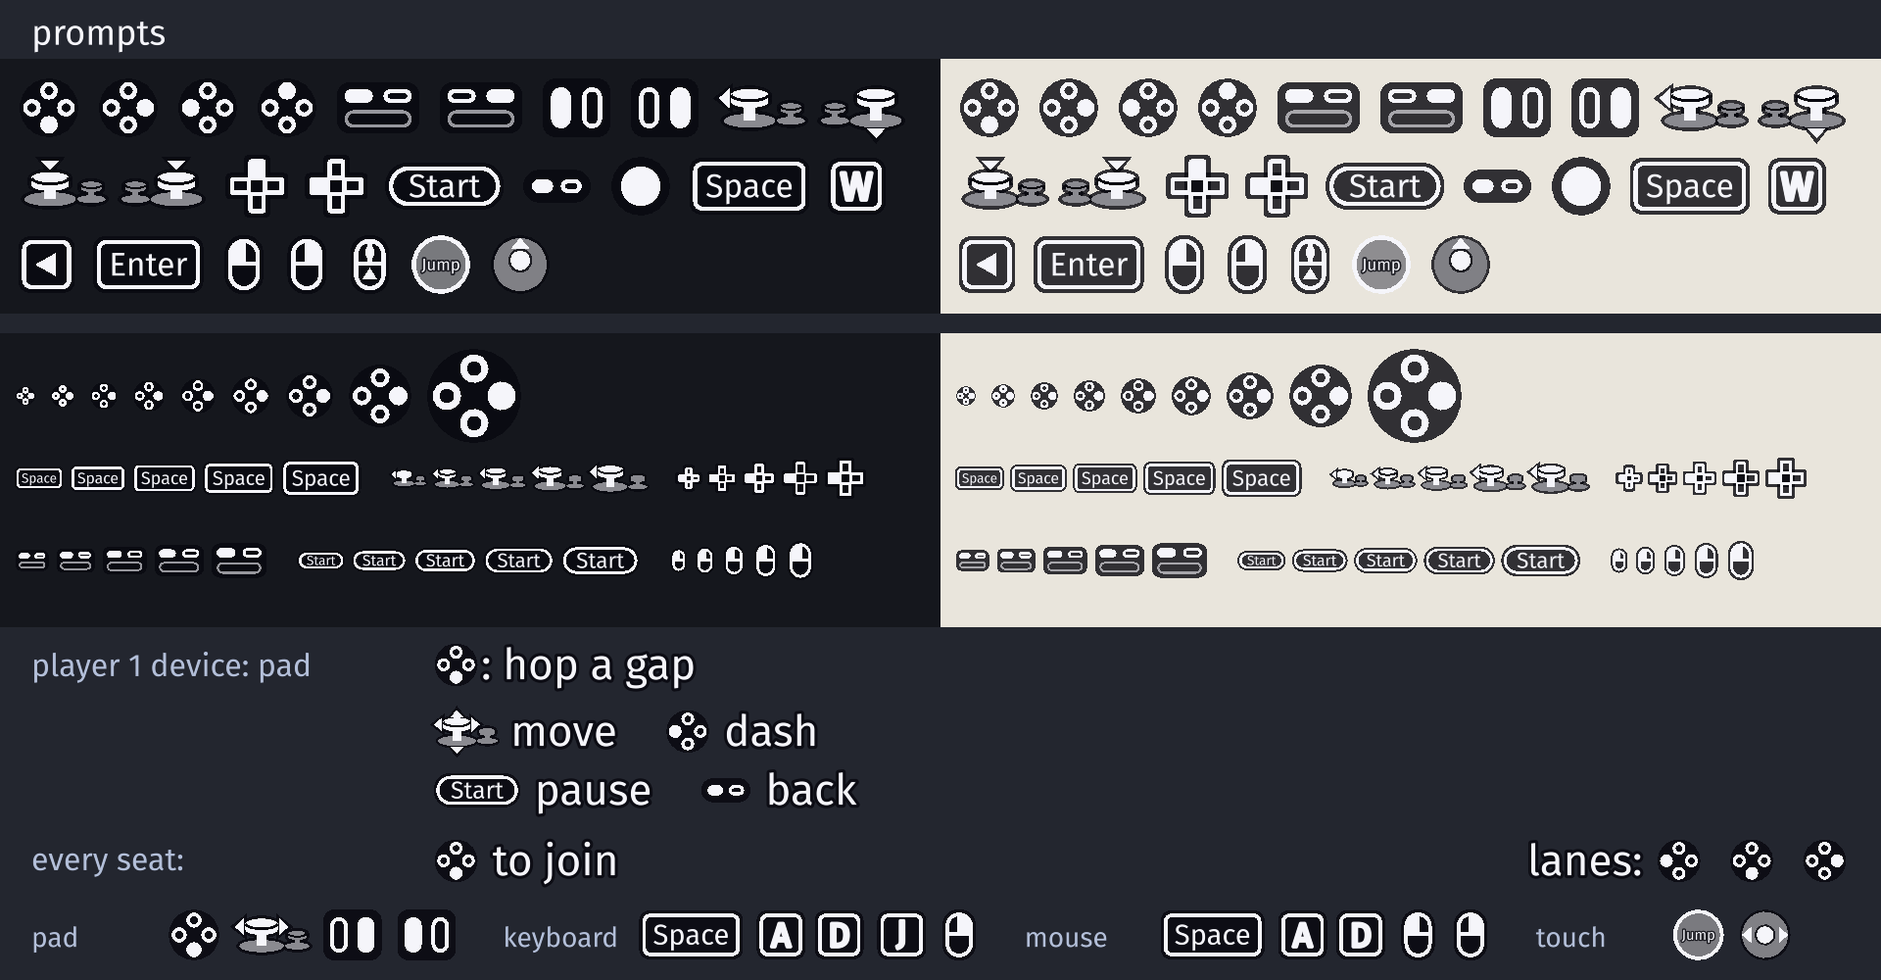
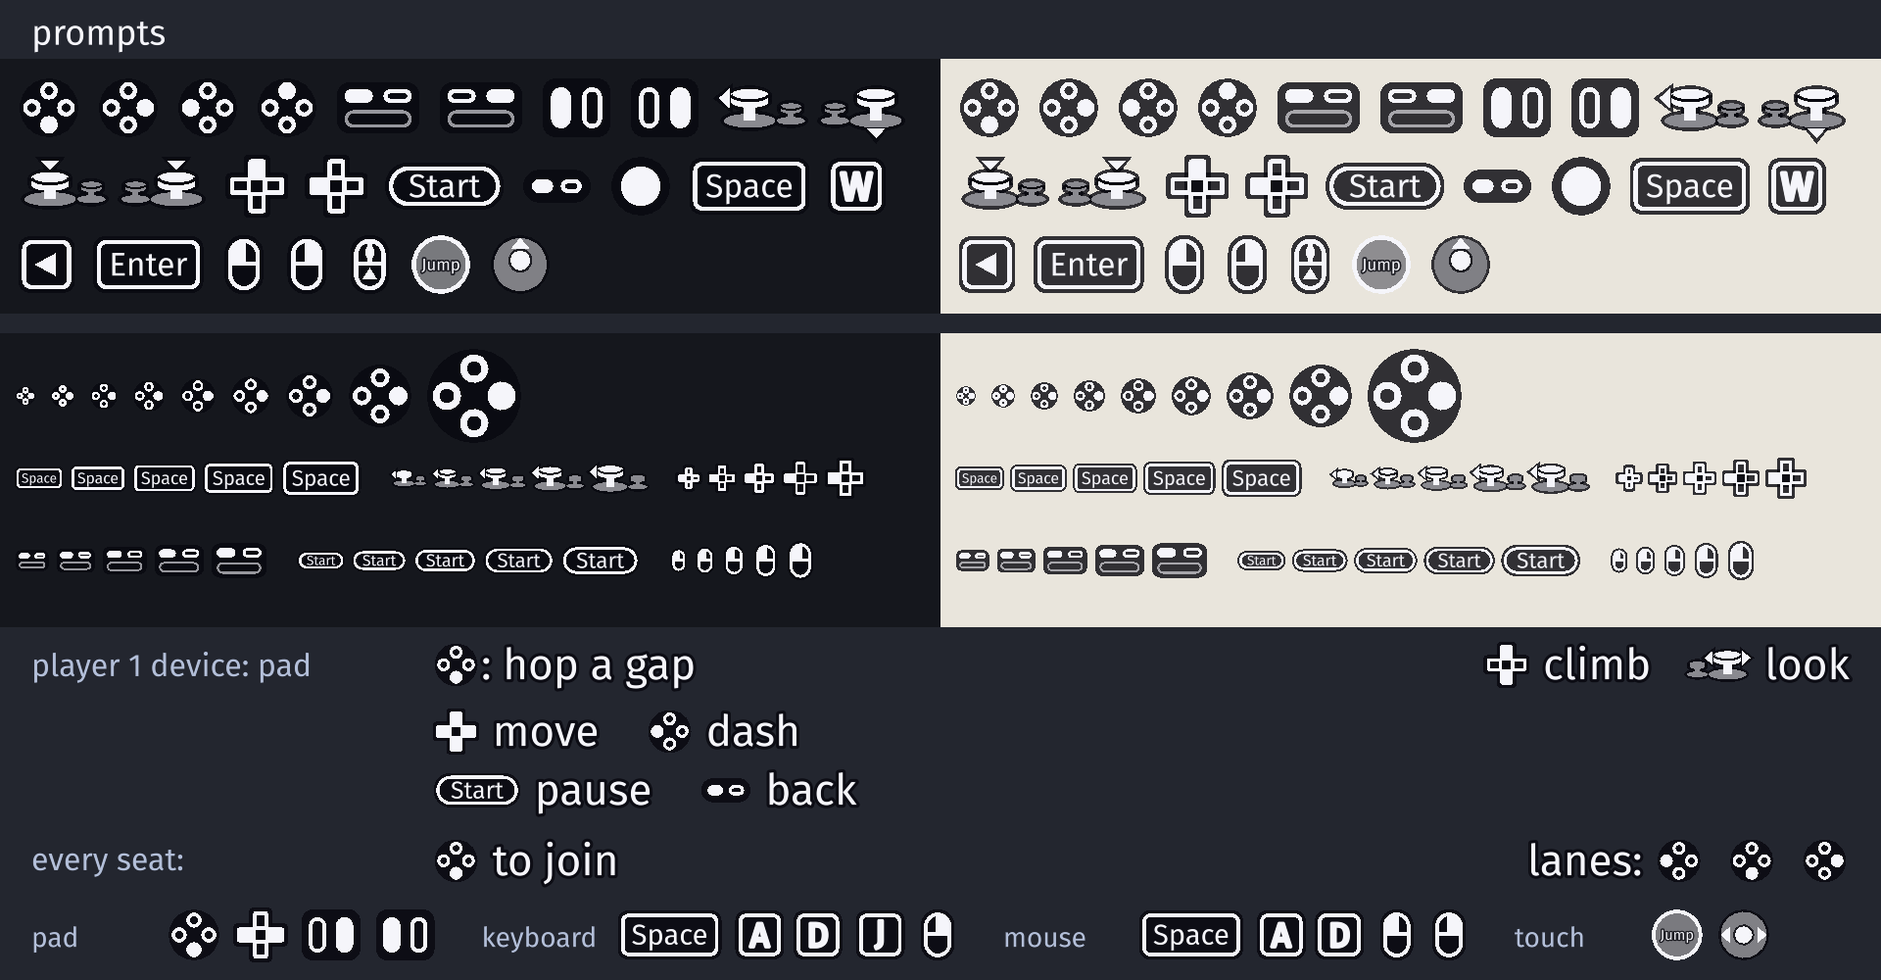
Movement prompts draw the d-pad, those arms solid, when the d-pad and a stick are both bound; the stick only for stick-only actions; gate prompts-dpad; v0.34.2

diff --git a/src/ui/prompt.c b/src/ui/prompt.c
@@ -44,7 +44,7 @@ static struct {
   uint32_t errors, missing;
   uint32_t logged[128]; /* hashes of the messages logged once */
   int nlogged;
-  bool break_wrong_dot, break_ignore_force; /* CW_TEST_PROMPT_BREAK: a gate's control */
+  bool break_wrong_dot, break_ignore_force, break_stick_first; /* CW_TEST_PROMPT_BREAK: a gate's control */
 } P;
 
 static const char *const DEVICE_NAMES[CW_PROMPT_DEVICE_COUNT] = { "none", "pad", "keyboard", "mouse", "touch" };
@@ -177,6 +177,7 @@ void cw__prompt_input_init(void) {
   const char *b = getenv("CW_TEST_PROMPT_BREAK");
   P.break_wrong_dot = b && strstr(b, "wrong_dot");
   P.break_ignore_force = b && strstr(b, "ignore_force");
+  P.break_stick_first = b && strstr(b, "stick_first");
 }
 
 /* ── which binding ───────────────────────────────────────────────────── */
@@ -321,6 +322,22 @@ static bool all_dpad(const cw_action *acts, int n) {
   }
   return true;
 }
+static bool is_stick_dir(cw_binding b) { return b.kind == CW_BIND_PAD_AXIS && b.code < CW_AXIS_LT; }
+static bool is_dpad_arm(cw_binding b) { return b.kind == CW_BIND_PAD_BUTTON && b.code >= CW_PAD_UP && b.code <= CW_PAD_RIGHT; }
+/* a movement action (its first pad binding a stick direction or a d-pad arm) on both a stick and a d-pad arm draws
+ * that arm, whichever comes first: {lean_fwd} alone lights one arm */
+static bool dpad_over_stick(cw_action a, cw_binding *out) {
+  cw_binding bs[CW_INPUT_MAX_BINDINGS], first;
+  if (!binding_for(a, CW_PROMPT_PAD, &first) || !(is_stick_dir(first) || is_dpad_arm(first))) return false;
+  int k = cw_action_bindings(a, bs, CW_INPUT_MAX_BINDINGS), dpad = -1;
+  bool stick = false;
+  for (int j = 0; j < k; j++) {
+    if (is_stick_dir(bs[j])) stick = true;
+    if (dpad < 0 && is_dpad_arm(bs[j])) dpad = j;
+  }
+  if (!stick || dpad < 0) return false;
+  return *out = bs[dpad], true;
+}
 static bool touch_stick_of(const cw_action *acts, int n, int *id) {
   int found = -1;
   for (int i = 0; i < n; i++) {
@@ -331,16 +348,6 @@ static bool touch_stick_of(const cw_action *acts, int n, int *id) {
   }
   *id = found;
   return found >= 0;
-}
-
-/* the d-pad stands in for the stick on a pad used only through its d-pad (a pad with no stick); pads < 0: none known */
-static bool stickless(const int *pads, int npads) {
-  if (npads <= 0) return false;
-  for (int i = 0; i < npads; i++) {
-    int p = pads[i];
-    if (p < 0 || p >= CW_MAX_PADS || !I.pad_dpad_seen[p] || I.pad_stick_seen[p]) return false;
-  }
-  return true;
 }
 
 /* the movement bits of the action at index i of a set of n: a pair is left, right (or up, down); four are l, r, u, d */
@@ -359,14 +366,15 @@ static uint32_t move_bit(const cw_action *acts, int n, int i) {
 }
 
 /* the glyphs of n actions on one device, added to s */
-static void device_glyphs(const cw_action *acts, int n, cw_prompt_device d, const int *pads, int npads, gset *s) {
+static void device_glyphs(const cw_action *acts, int n, cw_prompt_device d, gset *s) {
   if (n >= 2 && d == CW_PROMPT_PAD) {
+    /* the d-pad whenever every action is on it, even when a stick is bound too: the stick only for stick-only actions */
     int st = common_stick(acts, n);
-    bool dp = all_dpad(acts, n);
-    if (st >= 0 && dp && stickless(pads, npads)) st = -1;
+    bool dp = all_dpad(acts, n) && !(P.break_stick_first && st >= 0); /* the control: the stick when both */
+    if (dp) st = -1;
     if (st >= 0 || dp) {
-      glyph g = { .kind = st >= 0 ? PK_STICK : PK_DPAD };
-      for (int i = 0; i < n; i++) g.lit |= st >= 0 ? move_bit(acts, n, i) << 4 : move_bit(acts, n, i);
+      glyph g = { .kind = dp ? PK_DPAD : PK_STICK };
+      for (int i = 0; i < n; i++) g.lit |= dp ? move_bit(acts, n, i) : move_bit(acts, n, i) << 4;
       if (st == 1) g.lit |= 1;
       set_add(s, g);
       return;
@@ -385,7 +393,8 @@ static void device_glyphs(const cw_action *acts, int n, cw_prompt_device d, cons
   for (int j = 0; j < n; j++) {
     int i = keys ? WASD[j] : j;
     cw_binding b;
-    if (binding_for(acts[i], d, &b)) set_add(s, glyph_of(b));
+    if (d == CW_PROMPT_PAD && !P.break_stick_first && dpad_over_stick(acts[i], &b)) set_add(s, glyph_of(b));
+    else if (binding_for(acts[i], d, &b)) set_add(s, glyph_of(b));
     else missing(acts[i], d);
   }
 }
@@ -401,17 +410,15 @@ static void action_set(const cw_action *acts, int n, int player, gset *s) {
       for (int i = 0; i < n; i++) missing(acts[i], d);
       return;
     }
-    int pad = player < CW_INPUT_MAX_PLAYERS ? I.pad[player] : -1;
-    device_glyphs(acts, n, d, &pad, 1, s);
+    device_glyphs(acts, n, d, s);
     return;
   }
   bool pad = false, desk = false, touch = false;
   cw_prompt_device desk_dev = CW_PROMPT_KEYBOARD;
-  int pads[CW_INPUT_MAX_PLAYERS], npads = 0;
   for (int p = 0; p < CW_INPUT_MAX_PLAYERS; p++) {
     if (!present(p)) continue;
     cw_prompt_device d = device_of(p);
-    if (d == CW_PROMPT_PAD) pad = true, pads[npads++] = I.pad[p];
+    if (d == CW_PROMPT_PAD) pad = true;
     else if (d == CW_PROMPT_KEYBOARD || d == CW_PROMPT_MOUSE) {
       if (!desk) desk_dev = d;
       desk = true;
@@ -419,9 +426,9 @@ static void action_set(const cw_action *acts, int n, int player, gset *s) {
   }
   /* a device with nothing for these actions is left out while another shows something (a menu's keys on a phone) */
   held.on = true, held.n = 0;
-  if (pad) device_glyphs(acts, n, CW_PROMPT_PAD, pads, npads, s);
-  if (desk) device_glyphs(acts, n, desk_dev, NULL, 0, s);
-  if (touch) device_glyphs(acts, n, CW_PROMPT_TOUCH, NULL, 0, s);
+  if (pad) device_glyphs(acts, n, CW_PROMPT_PAD, s);
+  if (desk) device_glyphs(acts, n, desk_dev, s);
+  if (touch) device_glyphs(acts, n, CW_PROMPT_TOUCH, s);
   held.on = false;
   if (!s->n)
     for (int i = 0; i < held.n; i++) missing(held.a[i], (cw_prompt_device)held.d[i]);

diff --git a/samples/prompts/main.c b/samples/prompts/main.c
@@ -13,7 +13,7 @@
  * pad binding to it: every prompt follows on that frame. Native env:
  * PROMPTS_TYPO=1 writes {jmup} in one hint (the prompts-text gate's control).
  *
- * The debug request `ladder` swaps the page for the stick ladder: every stick glyph (a pair, four ways,
+ * The debug request `ladder` swaps the page for the stick ladder: every stick glyph (a stick-only pair, four ways,
  * one way, each stick, a press, the touch stick) and the keycaps at 16, 20, 24, 32 and 48 canvas pixels, on dark
  * and light, then in lines of HUD text at 16 and 22: the native-scale crops the stick glyph was drawn from.
  *
@@ -51,7 +51,7 @@ static const char AR[] =
 
 static struct {
   cw_font sans;
-  cw_action jump, dash, left, right, up, down, pause, back, fire, zoom, aim, look_l, look_r;
+  cw_action jump, dash, left, right, up, down, pause, back, fire, zoom, aim, look_l, look_r, stick[4];
   int32_t dev_hist[8], dev_n;
   float text_w[3];
   uint32_t rebind_code, missing_touch;
@@ -108,6 +108,13 @@ static void init(void *user) {
   S.look_r = cw_action_add("look_right", 0.3f);
   cw_action_bind_text(S.look_r, "axis:rx+");
   /* #endregion */
+  /* the stick ladder's pairs on the left stick alone (movement binds the d-pad too, so it draws the d-pad) */
+  static const char *const stick_binds[4] = { "axis:lx-", "axis:lx+", "axis:ly-", "axis:ly+" };
+  static const char *const stick_names[4] = { "stick_left", "stick_right", "stick_up", "stick_down" };
+  for (int i = 0; i < 4; i++) {
+    S.stick[i] = cw_action_add(stick_names[i], 0.3f);
+    cw_action_bind_text(S.stick[i], stick_binds[i]);
+  }
 
   /* the touch controls the touch prompts show (the overlay is off: the sheet is the picture) */
   cw_touch_add_round_button(&(cw_touch_button_desc){ .x = 110, .y = 110, .label = "Jump" });
@@ -196,8 +203,8 @@ static void ladder(float x0, float y, cw_color bg, cw_color ink, float w) {
 /* one cell of the stick ladder at size s: row r, item i (0 or 1); returns its width */
 static float ladder_cell(int r, int i, cw_vec2 at, float s, cw_color ink) {
   static const char *const one[][2] = { { "axis:lx-", "axis:ry+" }, { "pad:lstick", "pad:rstick" }, { "key:j", "key:escape" } };
-  cw_action steer[2] = { S.left, S.right }, vert[2] = { S.up, S.down }, four[4] = { S.left, S.right, S.up, S.down },
-            look[2] = { S.look_l, S.look_r };
+  cw_action steer[2] = { S.stick[0], S.stick[1] }, vert[2] = { S.stick[2], S.stick[3] }, four[4] = { S.stick[0], S.stick[1], S.stick[2], S.stick[3] },
+            look[2] = { S.look_l, S.look_r }, touch4[4] = { S.left, S.right, S.up, S.down }, touch2[2] = { S.left, S.right };
   cw_binding b;
   switch (r) {
   case 0: cw_prompt_force_device(3, CW_PROMPT_PAD); return cw_prompt_actions(i ? vert : steer, 2, 3, at, s, ink).x;
@@ -207,7 +214,7 @@ static float ladder_cell(int r, int i, cw_vec2 at, float s, cw_color ink) {
     return cw_prompt_binding(b, at, s, ink).x;
   case 4:
     cw_prompt_force_device(3, CW_PROMPT_TOUCH);
-    return cw_prompt_actions(i ? four : steer, i ? 4 : 2, 3, at, s, ink).x;
+    return cw_prompt_actions(i ? touch4 : touch2, i ? 4 : 2, 3, at, s, ink).x;
   default: return 0;
   }
 }
@@ -257,6 +264,10 @@ static void render(void *user, double alpha) {
   /* #region hint */
   cw_prompt_text(S.sans, cw_tr("hint.jump"), 0, (cw_vec2){ 220, y - 4 }, 22, INK, CW_ALIGN_LEFT);
   /* #endregion */
+  /* movement on the d-pad and the left stick draws the d-pad, those arms solid; looking (the right stick alone) the
+   * stick */
+  cw_prompt_text(S.sans, "{move_up|move_down} climb   {look_left|look_right} look", 0, (cw_vec2){ W - 16, y - 4 }, 22, INK,
+                 CW_ALIGN_RIGHT);
   if (cw_frame_index() == S.rebound_frame && S.rebound_frame) cw_prompt_action_codes(&S.jump, 1, 0, &S.rebind_code, 1);
   y += 30;
   cw_prompt_text(S.sans, S.typo ? "{move_left|move_right|move_up|move_down} move    {jmup} dash" : cw_tr("hint.move"), 0,

diff --git a/tests/unit/test_prompt.c b/tests/unit/test_prompt.c
@@ -1,7 +1,7 @@
 /* Button prompts (cartwheel/prompt.h) driven with synthetic raw input: which
  * device each player is on, which binding an action shows there, rebinding
  * on the same frame, an action with nothing on the device, typos in the
- * markup, movement pairs (and a pad with no stick), shared prompts, markup in
+ * markup, movement on the d-pad and a stick (the d-pad) or a stick alone, shared prompts, markup in
  * translated strings, the test override, and that none of it reaches the
  * simulation's input stream. */
 #include <stdlib.h>
@@ -188,30 +188,47 @@ static void test_movement(void) {
   cw_action_bind_text(m[2], "key:w, pad:up, axis:ly-");
   cw_action_bind_text(m[3], "key:s, pad:down, axis:ly+");
   uint32_t c[8];
-  /* a pair on a pad with both: one stick glyph, left and right */
-  CHECK_EQ_INT(cw_prompt_action_codes(m, 2, 0, c, 8), 1);
-  CHECK_EQ_INT(c[0], STICK((L | R) << 4));
-  CHECK_EQ_INT(cw_prompt_action_codes(m + 2, 2, 0, c, 8), 1);
-  CHECK_EQ_INT(c[0], STICK((U | D) << 4));
-  CHECK_EQ_INT(cw_prompt_action_codes(m, 4, 0, c, 8), 1);
-  CHECK_EQ_INT(c[0], STICK((L | R | U | D) << 4));
-  /* a pad used only through its d-pad (no stick): the d-pad */
-  pad_button(0, CW_PAD_LEFT);
+  /* a pair on a pad with both the d-pad and a stick: one d-pad glyph, those arms solid */
   CHECK_EQ_INT(cw_prompt_action_codes(m, 2, 0, c, 8), 1);
   CHECK_EQ_INT(c[0], DPAD(L | R));
-  /* the stick used once: the stick again */
-  raw.pads[0].axes[CW_AXIS_LY] = -1;
-  frame();
-  raw.pads[0].axes[CW_AXIS_LY] = 0;
-  frame();
+  CHECK_EQ_INT(cw_prompt_action_codes(m + 2, 2, 0, c, 8), 1);
+  CHECK_EQ_INT(c[0], DPAD(U | D));
   CHECK_EQ_INT(cw_prompt_action_codes(m, 4, 0, c, 8), 1);
-  CHECK_EQ_INT(c[0], STICK((L | R | U | D) << 4));
-  /* the right stick only */
+  CHECK_EQ_INT(c[0], DPAD(L | R | U | D));
+  /* whatever the pad was used with: the stick moved, then the d-pad, then the stick again */
+  for (int k = 0; k < 2; k++) {
+    raw.pads[0].axes[CW_AXIS_LY] = -1;
+    frame();
+    raw.pads[0].axes[CW_AXIS_LY] = 0;
+    frame();
+    CHECK_EQ_INT(cw_prompt_action_codes(m, 4, 0, c, 8), 1);
+    CHECK_EQ_INT(c[0], DPAD(L | R | U | D));
+    pad_button(0, CW_PAD_LEFT);
+  }
+  /* one direction alone on both: that arm, even with the stick bound first */
+  cw_action fwd = cw_action_add("lean_fwd", 0.3f);
+  cw_action_bind_text(fwd, "key:w, axis:ly-, pad:up");
+  CHECK_EQ_INT(code1(fwd, 0), DPAD(U));
+  /* one direction on a stick alone: the stick */
+  cw_action tilt = cw_action_add("tilt", 0.3f);
+  cw_action_bind_text(tilt, "axis:lx+");
+  CHECK_EQ_INT(code1(tilt, 0), STICK(R << 4));
+  /* a pair on the stick alone: the stick */
+  cw_action sl[2] = { cw_action_add("stick_l", 0.3f), cw_action_add("stick_r", 0.3f) };
+  cw_action_bind_text(sl[0], "axis:lx-");
+  cw_action_bind_text(sl[1], "axis:lx+");
+  CHECK_EQ_INT(cw_prompt_action_codes(sl, 2, 0, c, 8), 1);
+  CHECK_EQ_INT(c[0], STICK((L | R) << 4));
+  /* the right stick only (aim, look): the right stick */
   cw_action look[2] = { cw_action_add("look_l", 0.3f), cw_action_add("look_r", 0.3f) };
   cw_action_bind_text(look[0], "axis:rx-");
   cw_action_bind_text(look[1], "axis:rx+");
   CHECK_EQ_INT(cw_prompt_action_codes(look, 2, 0, c, 8), 1);
   CHECK_EQ_INT(c[0], STICK(1 | (L | R) << 4));
+  /* a face button first stays the face button though a d-pad arm and a stick are bound too */
+  cw_action hop = cw_action_add("hop", 0.5f);
+  cw_action_bind_text(hop, "pad:south, pad:up, axis:ly-");
+  CHECK_EQ_INT(code1(hop, 0), FACE(1));
   /* nothing in common (shoulders): each action's own glyph */
   cw_action sh[2] = { cw_action_add("prev", 0.5f), cw_action_add("next", 0.5f) };
   cw_action_bind_text(sh[0], "pad:lshoulder");

diff --git a/include/cartwheel/prompt.h b/include/cartwheel/prompt.h
@@ -77,14 +77,14 @@
  *
  * ── Movement ───────────────────────────────────────────────────────────
  * Two actions (left|right or up|down) or four (left|right|up|down) draw as
- * ONE glyph when their pad bindings agree: the stick when all of them are on
- * one stick, else the d-pad when all are on it. When both exist the stick is
- * shown, except on a pad whose d-pad this player has used and whose sticks
- * they never have: that is how a pad with no stick (a retro handheld, which
- * still steers through the d-pad bindings of the same actions) is told apart,
- * since no host reports which pads have sticks. Until a pad has been used it
- * shows the stick. Bindings that agree on nothing draw each action's glyph
- * side by side. On a keyboard each action's keycap is drawn, side by side.
+ * ONE glyph when their pad bindings agree: the d-pad, with those arms solid,
+ * when all of them are on it, whether or not a stick is bound too; else the
+ * stick when all of them are on one stick (right-stick aiming or looking,
+ * which has no d-pad binding). Every pad has a d-pad, so it is the glyph any
+ * player can follow, whatever they last steered with. One movement action
+ * alone on both a stick and the d-pad ({lean_fwd}) draws its d-pad arm.
+ * Bindings that agree on nothing draw each action's glyph side by side. On a
+ * keyboard each action's keycap is drawn, side by side.
  *
  * ── Shared prompts (player -1) ─────────────────────────────────────────
  * A title or instructions screen that several seats read: the pad glyph when

diff --git a/src/input/input.c b/src/input/input.c
@@ -365,18 +365,11 @@ static void track_devices(const cw_raw_input *raw) {
   bool pad_used[CW_MAX_PADS] = { 0 };
   for (int p = 0; p < CW_MAX_PADS; p++) {
     const cw_pad_state *ps = &raw->pads[p], *pp = &pr->pads[p];
-    if (!ps->connected) {
-      I.pad_stick_seen[p] = I.pad_dpad_seen[p] = false;
-      continue;
-    }
+    if (!ps->connected) continue;
     uint32_t down = ps->pressed | (ps->buttons & ~pp->buttons);
     bool used = down != 0;
-    if (down & ((1u << CW_PAD_UP) | (1u << CW_PAD_DOWN) | (1u << CW_PAD_LEFT) | (1u << CW_PAD_RIGHT))) I.pad_dpad_seen[p] = true;
-    for (int a = 0; a < CW_AXIS_COUNT; a++) {
-      if (!(fabsf(ps->axes[a]) > 0.5f && !(fabsf(pp->axes[a]) > 0.5f && pp->connected))) continue;
-      used = true;
-      if (a <= CW_AXIS_RY) I.pad_stick_seen[p] = true;
-    }
+    for (int a = 0; a < CW_AXIS_COUNT; a++)
+      if (fabsf(ps->axes[a]) > 0.5f && !(fabsf(pp->axes[a]) > 0.5f && pp->connected)) used = true;
     pad_used[p] = used;
   }
   for (int pl = 0; pl < CW_INPUT_MAX_PLAYERS; pl++) {

diff --git a/src/input/input_internal.h b/src/input/input_internal.h
@@ -86,7 +86,6 @@ typedef struct cw__input_state {
   uint8_t prompt_last[CW_INPUT_MAX_PLAYERS];  /* cw_prompt_device each player used last (NONE: nothing yet) */
   uint8_t prompt_force[CW_INPUT_MAX_PLAYERS]; /* cw_prompt_force_device / CW_TEST_PROMPT_DEVICE (NONE: not forced) */
   bool touch_prev_active_frame[CW_MAX_TOUCHES];
-  bool pad_stick_seen[CW_MAX_PADS], pad_dpad_seen[CW_MAX_PADS]; /* this pad's sticks / d-pad were used since it connected */
   uint32_t prompt_count, prompt_codes[16];    /* glyphs drawn this frame (debug fields prompt.count, prompt.glyphs) */
 } cw__input_state;
 

diff --git a/docs/guides/input.md b/docs/guides/input.md
@@ -110,7 +110,7 @@ The rules, each with a test in `unit-prompt` and the `prompts-*` gates:
 - **Rebinding.** A prompt reads the bindings when it draws, so a player who moves jump to the north button sees north lit, everywhere, on that frame.
 - **Nothing on the device.** An action with no binding there draws nothing and logs a warning once, naming the action and the device. It never guesses.
 - **A typo.** `{jmup}` draws nothing, logs once and counts in the debug field `prompt.errors`; `tests/gate.mjs` fails every gate whose run has one.
-- **Movement.** A pair or four directions draw one glyph when their pad bindings agree: the stick when all are on one stick, else the d-pad. No host reports whether a pad has a stick, so a pad whose d-pad the player has used and whose sticks they never have is taken to have none and shows the d-pad (a retro handheld steers through the same actions' d-pad bindings).
+- **Movement.** A pair or four directions draw one glyph when their pad bindings agree. When every action is on the d-pad the glyph is the d-pad with those arms solid, even when a stick is bound too: `{move_left|move_right}` lights left and right, `{move_up|move_down}` up and down, all four light every arm. Every pad has a d-pad, so this is the glyph any player can follow, whichever of the two they last steered with. Only actions on a stick and not the d-pad (right-stick aiming, looking round) draw the stick. One direction alone on both, such as `{lean_fwd}`, lights its one arm.
 - **Shared prompts.** Player `-1` is every present seat: a title or instructions screen shows the pad glyph if any seat is on a pad, then the keycap if any is on the keyboard, then the touch control.
 - **Determinism.** Prompts are presentation. Nothing here enters the simulation, the recording or `input.hash`. Calling them from `fixed_update` asserts in a debug build and counts in `prompt.errors` in a release build.
 - **Tests.** `CW_TEST_PROMPT_DEVICE=pad|keyboard|mouse|touch` forces every player's device in a native run; the debug request `prompt device <player|all> <device|auto>` does it in a cart (a gate's `startCmds`); an input script's first event on another device switches it as a player would.
@@ -125,7 +125,7 @@ When the design is about position (lanes, answer slots, a dance mat), lay it out
 
 Every pad the engine meets has four face buttons in a diamond, a d-pad, two shoulders, Start and Back: wasmcart's own default set (its SPEC, the manifest's `controls`). Confirm is south and back is east on every pad; the engine does not swap them for any maker.
 
-Players use the left stick and the d-pad interchangeably, so every movement action binds to both, on the same action: `move_left = key:a, key:left, pad:left, axis:lx-`. A player then steers with either, and the prompt draws whichever one they last used (see Movement above). The right stick is its own control: aiming and the camera live there with no d-pad binding.
+Players use the left stick and the d-pad interchangeably, so every movement action binds to both, on the same action: `move_left = key:a, key:left, pad:left, axis:lx-`. A player then steers with either, and the prompt draws the d-pad (see Movement above). The right stick is its own control: aiming and the camera live there with no d-pad binding.
 
 ### The rules for games
 

diff --git a/CHANGELOG.md b/CHANGELOG.md
@@ -4,6 +4,20 @@ What each release added, changed and fixed. Releases are git tags; each one's
 prebuilt SDKs (one per target, see [docs/sdk.md](docs/sdk.md)) are on its
 GitHub release. The guides in `docs/guides/` cover each feature in depth.
 
+## v0.34.2 (2026-11-06)
+
+### Changed
+- **Movement prompts draw the d-pad when the d-pad and a stick are both bound.** A pair or four directions whose actions are all on the d-pad draw the d-pad glyph with those arms solid, whether or not a stick is bound too and whatever the player last steered with: `{move_left|move_right}` lights left and right, `{move_up|move_down}` up and down, the four directions every arm. One movement action alone on both, such as `{lean_fwd}`, lights its one arm. Actions on a stick and not the d-pad (right-stick aiming, looking round) draw the stick as before. The old choice (the stick, unless the pad had only ever been used through its d-pad) is gone, and with it the input module's per-pad record of which was used.
+- The prompts sample adds a line with a d-pad pair and a right-stick pair, and its stick ladder uses actions on the stick alone. docs/images/prompts.png is from the new sample.
+- Docs: the input guide's Movement rule and prompt.h.
+
+### Tests
+- `unit-prompt` checks the d-pad for pairs, four directions and one direction bound to both (after the stick, the d-pad and the stick again were used), the stick for stick-only actions, and a face button first staying the face button.
+- New gate `prompts-dpad`: the sample's glyph codes for a pad player, d-pad for the pairs bound to both, the right stick for look. Its control, `CW_TEST_PROMPT_BREAK=stick_first`, draws the stick when both are bound and fails. `prompts-glyphs` has the new codes.
+
+### Moving a game to v0.34.2
+- Nothing to change in code. A game that hand-draws a stick beside movement bound to the d-pad too should use the prompt markup instead, and a game whose prompt checks compare glyph codes or pictures gets the d-pad codes (5<<16 | arms) where it had the stick (4<<16 | arms<<4).
+
 ## v0.34.1 (2026-11-05)
 
 ### Fixed
